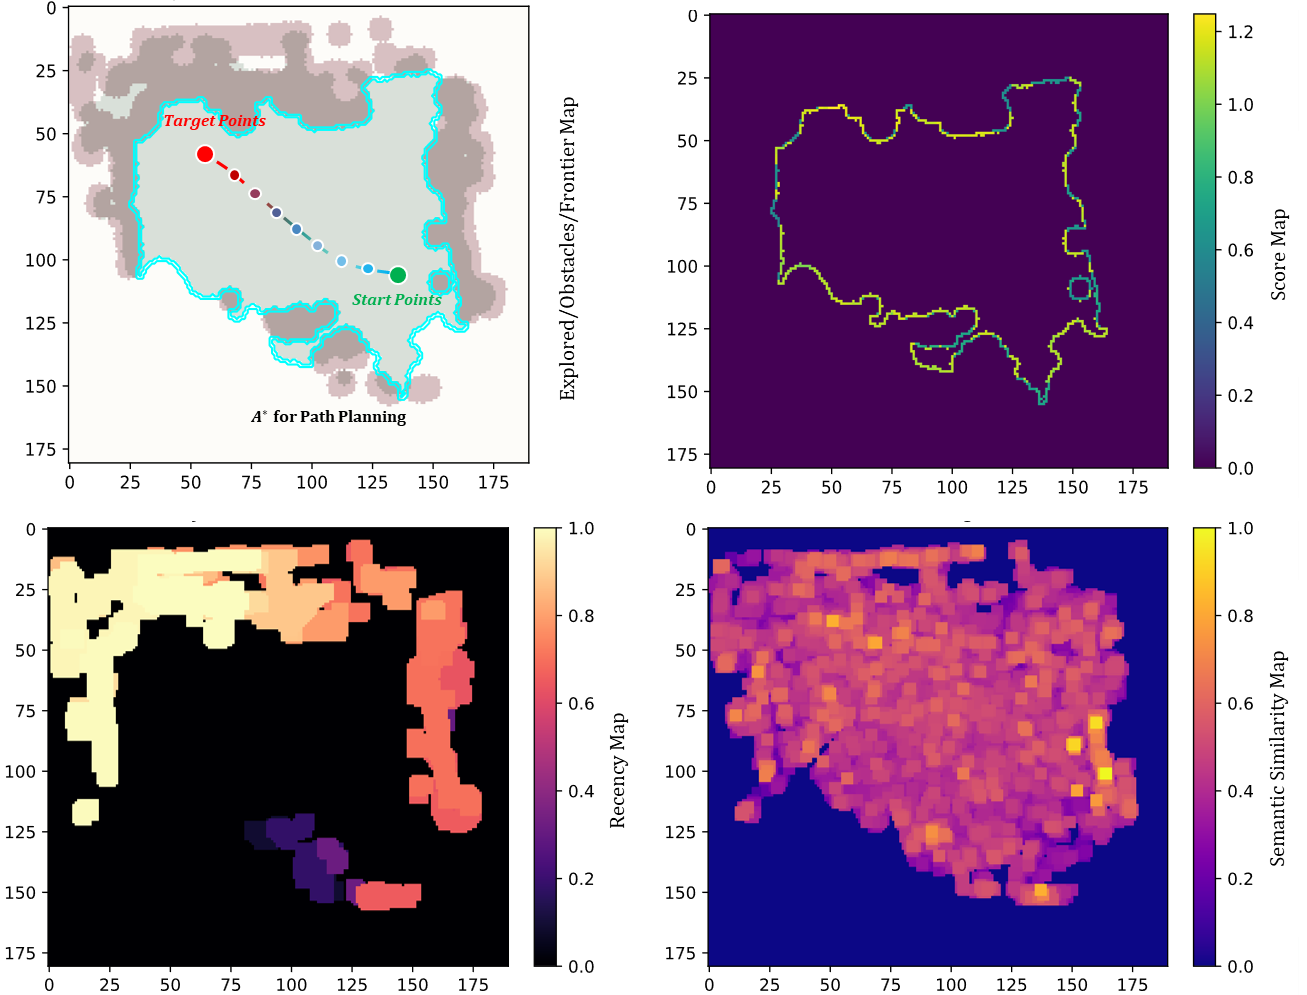
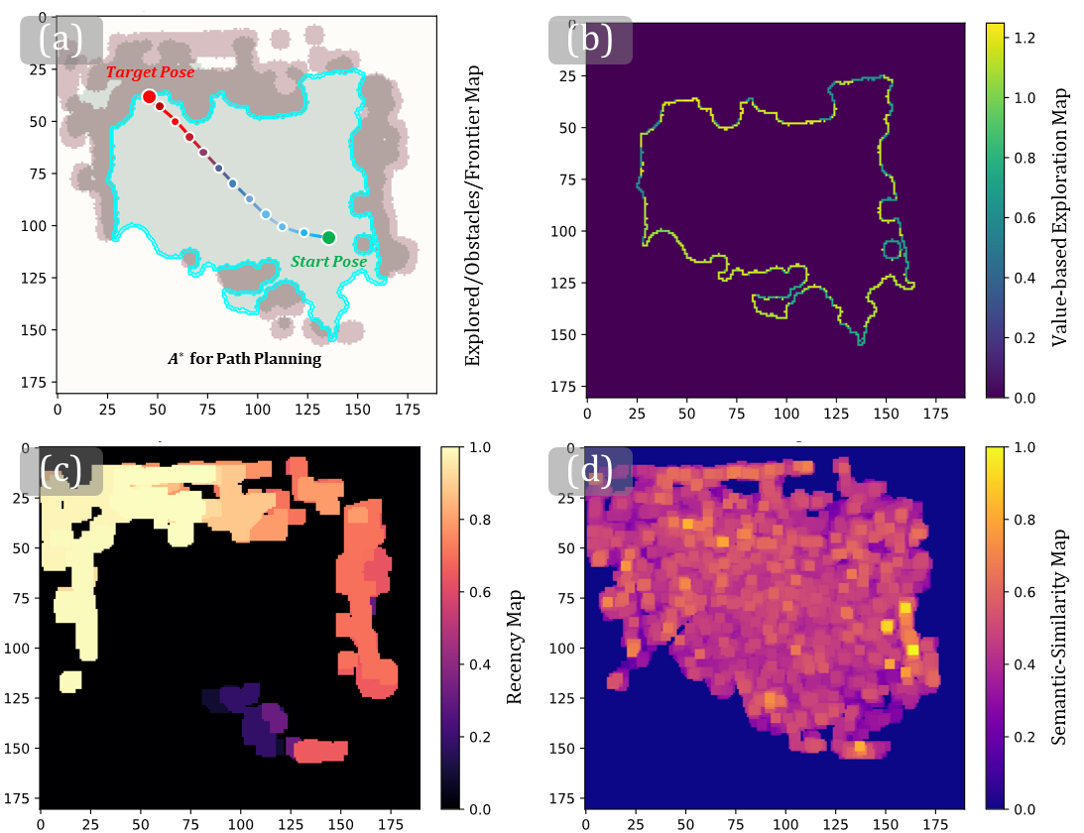
udpate

diff --git a/index.html b/index.html
@@ -332,14 +332,18 @@
 
         <div class="method-grid">
           <figure class="figure-showcase">
-            <img src="media/figures/hybrid_localization.png" alt="Hybrid localization pipeline in DREAM">
+            <div class="method-image-frame">
+              <img src="media/figures/hybrid_localization.png" alt="Hybrid localization pipeline in DREAM">
+            </div>
             <figcaption>
               Hybrid localization reacquires moved targets and keeps robot pose estimates aligned with changing scenes.
             </figcaption>
           </figure>
 
           <figure class="figure-showcase">
-            <img src="media/figures/task_oriented_navigation.png" alt="Task-oriented navigation in DREAM">
+            <div class="method-image-frame">
+              <img src="media/figures/task_oriented_navigation.png" alt="Task-oriented navigation in DREAM">
+            </div>
             <figcaption>
               Task-oriented navigation prioritizes uncertain or task-relevant regions and selects manipulation-aware
               docking poses.

diff --git a/static/css/index.css b/static/css/index.css
@@ -405,6 +405,28 @@ video {
   margin-bottom: 24px;
 }
 
+.method-image-frame {
+  display: flex;
+  align-items: center;
+  justify-content: center;
+  aspect-ratio: 1.18 / 1;
+  padding: 0;
+  overflow: hidden;
+  background: #ffffff;
+  border: 1px solid var(--line);
+  border-radius: 8px;
+  box-shadow: var(--shadow);
+}
+
+.method-image-frame img {
+  width: 100%;
+  height: 100%;
+  object-fit: contain;
+  border: 0;
+  border-radius: 0;
+  box-shadow: none;
+}
+
 .method-grid {
   display: grid;
   grid-template-columns: repeat(2, minmax(0, 1fr));
